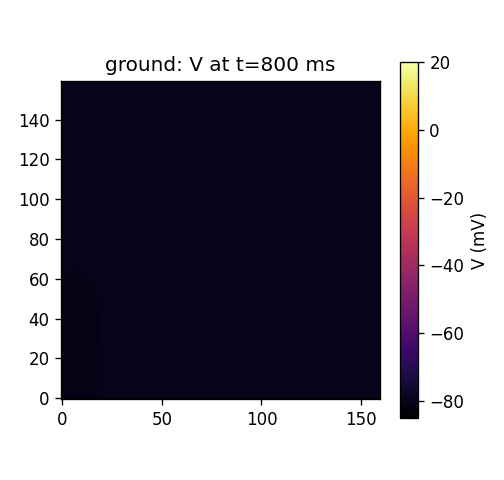
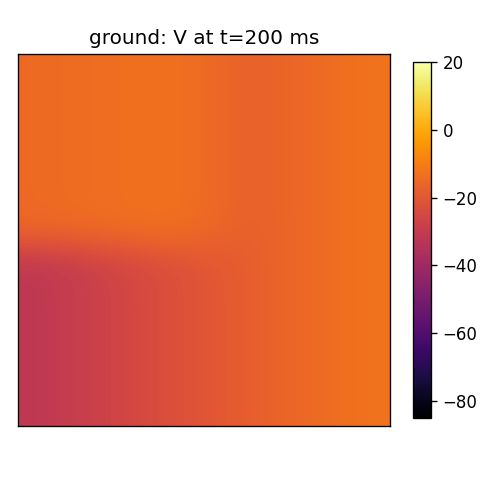
docs: add CRN money-shot GIF and peak-activity snapshots to README

diff --git a/README.md b/README.md
@@ -21,10 +21,16 @@ shortened refractoriness — makes the atrium fragment wavefronts into re-entran
 > clinical picture: increased vulnerability without observed sustained AF
 > (Khine et al., 2018).
 
-| Ground atrium (1 g) | Microgravity-remodelled atrium |
+![ground vs microgravity, S1-S2 induction](figures/anim_crn.gif)
+
+*Same S1–S2 induction in both: the healthy sheet (left) activates and clears cleanly;
+the microgravity-remodelled sheet (right) fragments into heterogeneous, short-lived
+wavelets.*
+
+| Ground atrium (1 g), t = 200 ms | Microgravity-remodelled atrium, t = 200 ms |
 |:---:|:---:|
 | ![ground](figures/snapshot_crn_ground.png) | ![microgravity](figures/snapshot_crn_microgravity.png) |
-| wavefront conducts cleanly | wavefront fragments into rotor cores |
+| uniform, organised activation | fragmented, heterogeneous wavelets (wavebreak) |
 
 ![wavebreak over time](figures/ensemble_ps.png)
 